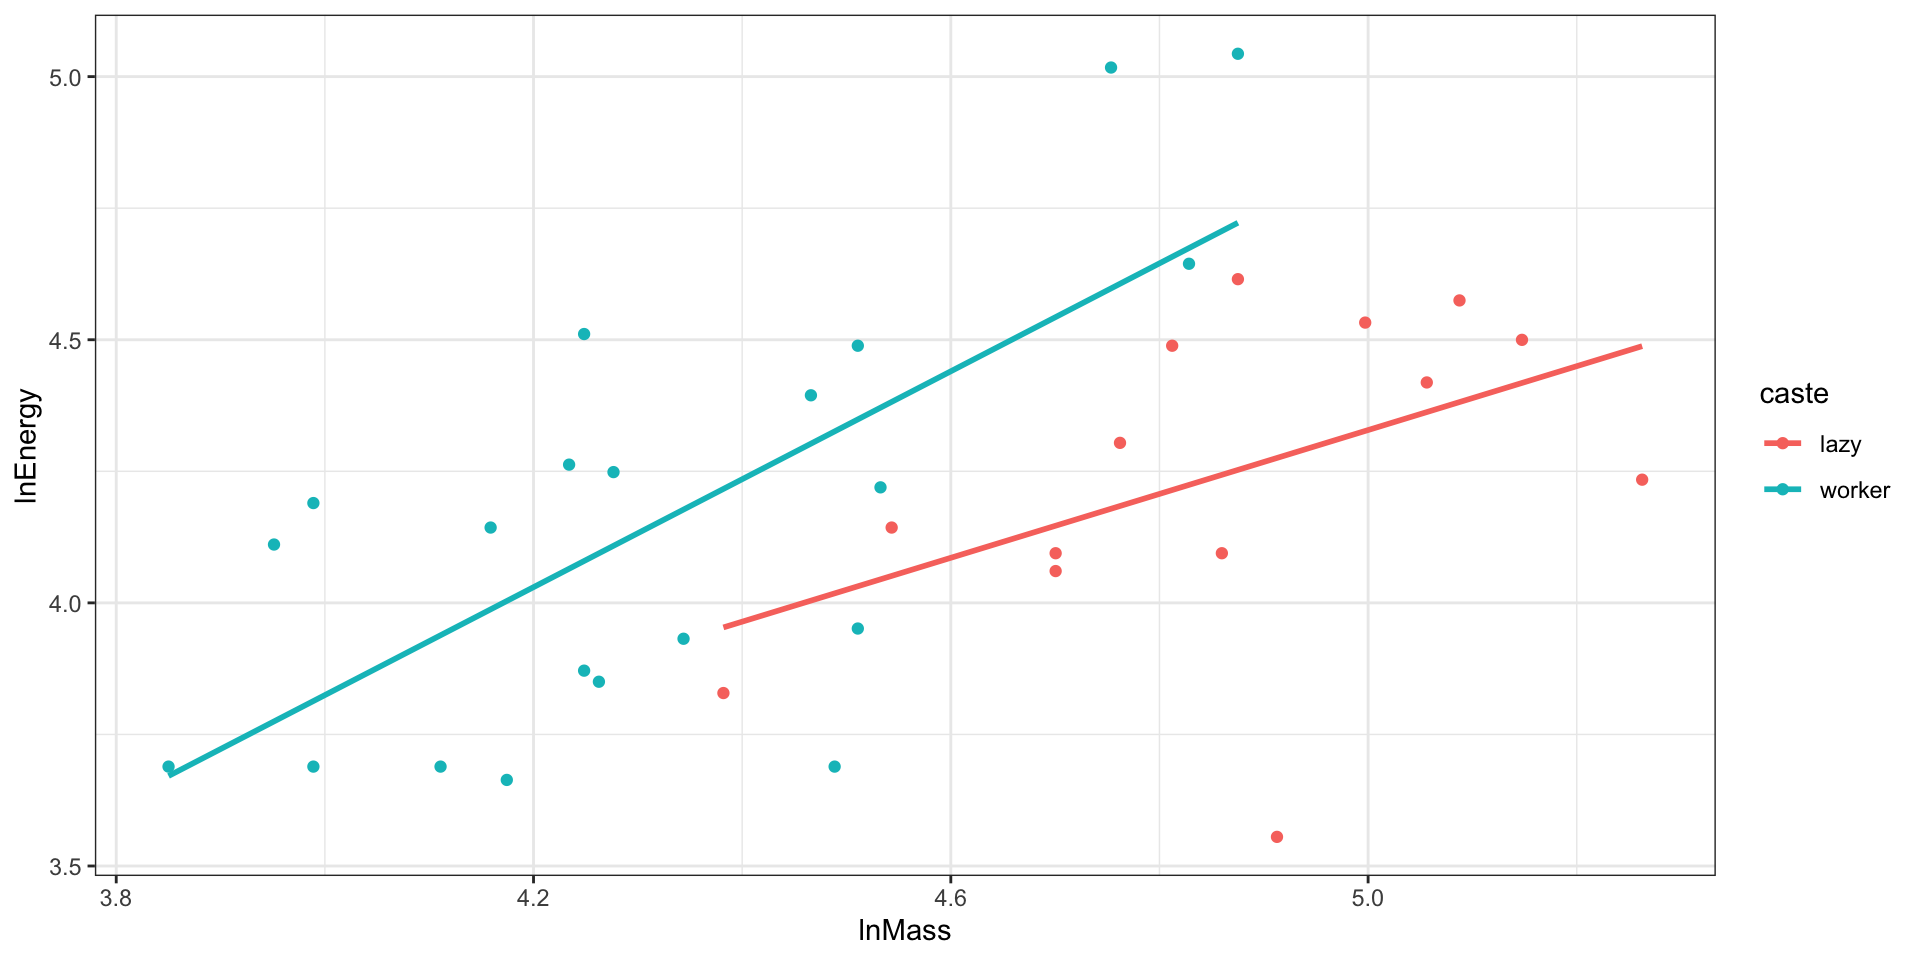
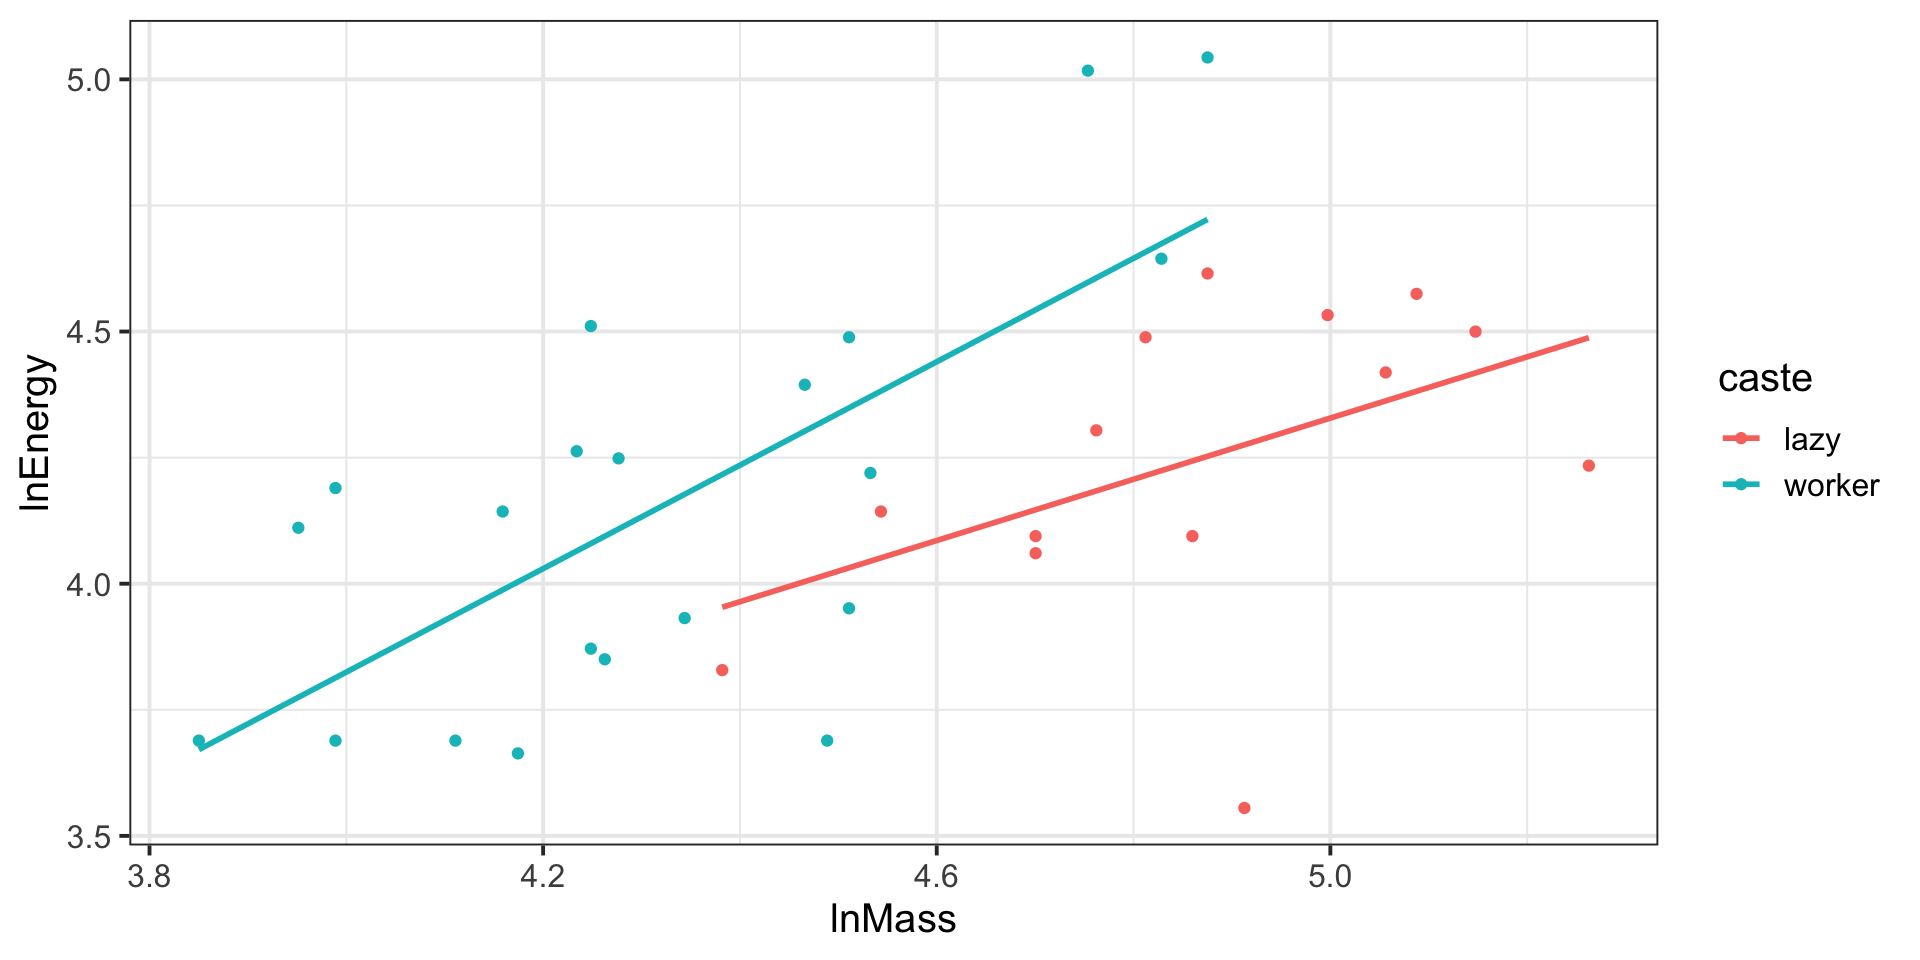
updated

diff --git a/ANCOVA _more_examples/ANCOVA_more_examples.html b/ANCOVA _more_examples/ANCOVA_more_examples.html
@@ -392,9 +392,10 @@
 
 <p>Setup</p>
 <div class="cell">
-<div class="sourceCode cell-code" id="cb1"><pre class="sourceCode r code-with-copy"><code class="sourceCode r"><span id="cb1-1"><a href="#cb1-1" aria-hidden="true" tabindex="-1"></a><span class="fu">library</span>(ggplot2)</span>
-<span id="cb1-2"><a href="#cb1-2" aria-hidden="true" tabindex="-1"></a><span class="fu">library</span>(multcomp)</span>
-<span id="cb1-3"><a href="#cb1-3" aria-hidden="true" tabindex="-1"></a><span class="fu">library</span>(multcompView)</span></code><button title="Copy to Clipboard" class="code-copy-button"><i class="bi"></i></button></pre></div>
+<div class="sourceCode cell-code" id="cb1"><pre class="sourceCode r code-with-copy"><code class="sourceCode r"><span id="cb1-1"><a href="#cb1-1" aria-hidden="true" tabindex="-1"></a><span class="fu">library</span>(dplyr)</span>
+<span id="cb1-2"><a href="#cb1-2" aria-hidden="true" tabindex="-1"></a><span class="fu">library</span>(ggplot2)</span>
+<span id="cb1-3"><a href="#cb1-3" aria-hidden="true" tabindex="-1"></a><span class="fu">library</span>(multcomp)</span>
+<span id="cb1-4"><a href="#cb1-4" aria-hidden="true" tabindex="-1"></a><span class="fu">library</span>(multcompView)</span></code><button title="Copy to Clipboard" class="code-copy-button"><i class="bi"></i></button></pre></div>
 </div>
 <div class="cell">
 
@@ -429,7 +430,7 @@
 <span id="cb4-2"><a href="#cb4-2" aria-hidden="true" tabindex="-1"></a>  <span class="fu">geom_point</span>() <span class="sc">+</span></span>
 <span id="cb4-3"><a href="#cb4-3" aria-hidden="true" tabindex="-1"></a>  <span class="fu">geom_smooth</span>(<span class="at">method =</span> <span class="st">"lm"</span>, <span class="at">se=</span><span class="cn">FALSE</span>)<span class="sc">+</span> </span>
 <span id="cb4-4"><a href="#cb4-4" aria-hidden="true" tabindex="-1"></a>  <span class="co">#this method allows regression lines to be heterogeneous</span></span>
-<span id="cb4-5"><a href="#cb4-5" aria-hidden="true" tabindex="-1"></a>  <span class="fu">theme_bw</span>()</span></code><button title="Copy to Clipboard" class="code-copy-button"><i class="bi"></i></button></pre></div>
+<span id="cb4-5"><a href="#cb4-5" aria-hidden="true" tabindex="-1"></a>  <span class="fu">theme_bw</span>(<span class="dv">15</span>)</span></code><button title="Copy to Clipboard" class="code-copy-button"><i class="bi"></i></button></pre></div>
 
 </div>
 <img data-src="ANCOVA_more_examples_files/figure-revealjs/unnamed-chunk-3-1.png" width="960" class="r-stretch"><p>Lines don’t look very parallel. Need to test. <br> First we fit a model allowing separate slopes.</p>
@@ -533,7 +534,8 @@ Model 2: lnEnergy ~ lnMass + caste
 <div class="cell">
 <div class="sourceCode cell-code" id="cb13"><pre class="sourceCode r code-with-copy"><code class="sourceCode r"><span id="cb13-1"><a href="#cb13-1" aria-hidden="true" tabindex="-1"></a><span class="fu">ggplot</span>(molerat, <span class="fu">aes</span>(<span class="at">x =</span> lnMass, <span class="at">y =</span> lnEnergy, <span class="at">color =</span> caste) ) <span class="sc">+</span></span>
 <span id="cb13-2"><a href="#cb13-2" aria-hidden="true" tabindex="-1"></a>     <span class="fu">geom_point</span>() <span class="sc">+</span></span>
-<span id="cb13-3"><a href="#cb13-3" aria-hidden="true" tabindex="-1"></a>     <span class="fu">geom_line</span>(<span class="fu">aes</span>(<span class="at">y =</span> predlm))</span></code><button title="Copy to Clipboard" class="code-copy-button"><i class="bi"></i></button></pre></div>
+<span id="cb13-3"><a href="#cb13-3" aria-hidden="true" tabindex="-1"></a>     <span class="fu">geom_line</span>(<span class="fu">aes</span>(<span class="at">y =</span> predlm)) <span class="sc">+</span></span>
+<span id="cb13-4"><a href="#cb13-4" aria-hidden="true" tabindex="-1"></a>  <span class="fu">theme_bw</span>(<span class="dv">15</span>)</span></code><button title="Copy to Clipboard" class="code-copy-button"><i class="bi"></i></button></pre></div>
 
 </div>
 <img data-src="ANCOVA_more_examples_files/figure-revealjs/unnamed-chunk-8-1.png" width="960" class="r-stretch"><p>These lines are definitely parallel and our model supports this rather than the separate slopes model.</p>
@@ -587,20 +589,31 @@ F-statistic: 11.07 on 2 and 32 DF,  p-value: 0.0002213</code></pre>
 <h2>Practice with <code>msleep</code> Data from ggplot</h2>
 <p>Is there a difference between carnivores (Carnivora) and rodents (Rodentia) in duration of REM sleep after accounting for variation in total amount of sleep?</p>
 <div class="cell">
-<div class="sourceCode cell-code" id="cb18"><pre class="sourceCode r code-with-copy"><code class="sourceCode r"><span id="cb18-1"><a href="#cb18-1" aria-hidden="true" tabindex="-1"></a><span class="fu">head</span>(msleep)</span></code><button title="Copy to Clipboard" class="code-copy-button"><i class="bi"></i></button></pre></div>
+<div class="sourceCode cell-code" id="cb18"><pre class="sourceCode r code-with-copy"><code class="sourceCode r"><span id="cb18-1"><a href="#cb18-1" aria-hidden="true" tabindex="-1"></a>msleep <span class="ot">&lt;-</span> msleep <span class="sc">%&gt;%</span> </span>
+<span id="cb18-2"><a href="#cb18-2" aria-hidden="true" tabindex="-1"></a>  dplyr<span class="sc">::</span><span class="fu">select</span>(name, order, sleep_total, sleep_rem)</span>
+<span id="cb18-3"><a href="#cb18-3" aria-hidden="true" tabindex="-1"></a><span class="fu">head</span>(msleep, <span class="dv">15</span>)</span></code><button title="Copy to Clipboard" class="code-copy-button"><i class="bi"></i></button></pre></div>
 <div class="cell-output cell-output-stdout">
-<pre><code># A tibble: 6 × 11
-  name    genus vore  order conservation sleep_total sleep_rem sleep_cycle awake
-  &lt;chr&gt;   &lt;chr&gt; &lt;chr&gt; &lt;chr&gt; &lt;chr&gt;              &lt;dbl&gt;     &lt;dbl&gt;       &lt;dbl&gt; &lt;dbl&gt;
-1 Cheetah Acin… carni Carn… lc                  12.1      NA        NA      11.9
-2 Owl mo… Aotus omni  Prim… &lt;NA&gt;                17         1.8      NA       7  
-3 Mounta… Aplo… herbi Rode… nt                  14.4       2.4      NA       9.6
-4 Greate… Blar… omni  Sori… lc                  14.9       2.3       0.133   9.1
-5 Cow     Bos   herbi Arti… domesticated         4         0.7       0.667  20  
-6 Three-… Brad… herbi Pilo… &lt;NA&gt;                14.4       2.2       0.767   9.6
-# … with 2 more variables: brainwt &lt;dbl&gt;, bodywt &lt;dbl&gt;</code></pre>
+<pre><code># A tibble: 15 × 4
+   name                       order        sleep_total sleep_rem
+   &lt;chr&gt;                      &lt;chr&gt;              &lt;dbl&gt;     &lt;dbl&gt;
+ 1 Cheetah                    Carnivora           12.1      NA  
+ 2 Owl monkey                 Primates            17         1.8
+ 3 Mountain beaver            Rodentia            14.4       2.4
+ 4 Greater short-tailed shrew Soricomorpha        14.9       2.3
+ 5 Cow                        Artiodactyla         4         0.7
+ 6 Three-toed sloth           Pilosa              14.4       2.2
+ 7 Northern fur seal          Carnivora            8.7       1.4
+ 8 Vesper mouse               Rodentia             7        NA  
+ 9 Dog                        Carnivora           10.1       2.9
+10 Roe deer                   Artiodactyla         3        NA  
+11 Goat                       Artiodactyla         5.3       0.6
+12 Guinea pig                 Rodentia             9.4       0.8
+13 Grivet                     Primates            10         0.7
+14 Chinchilla                 Rodentia            12.5       1.5
+15 Star-nosed mole            Soricomorpha        10.3       2.2</code></pre>
 </div>
 </div>
+<p><br> <br> There are some NAs we need to take care of.</p>
 <div class="footer footer-default">
 
 </div>
